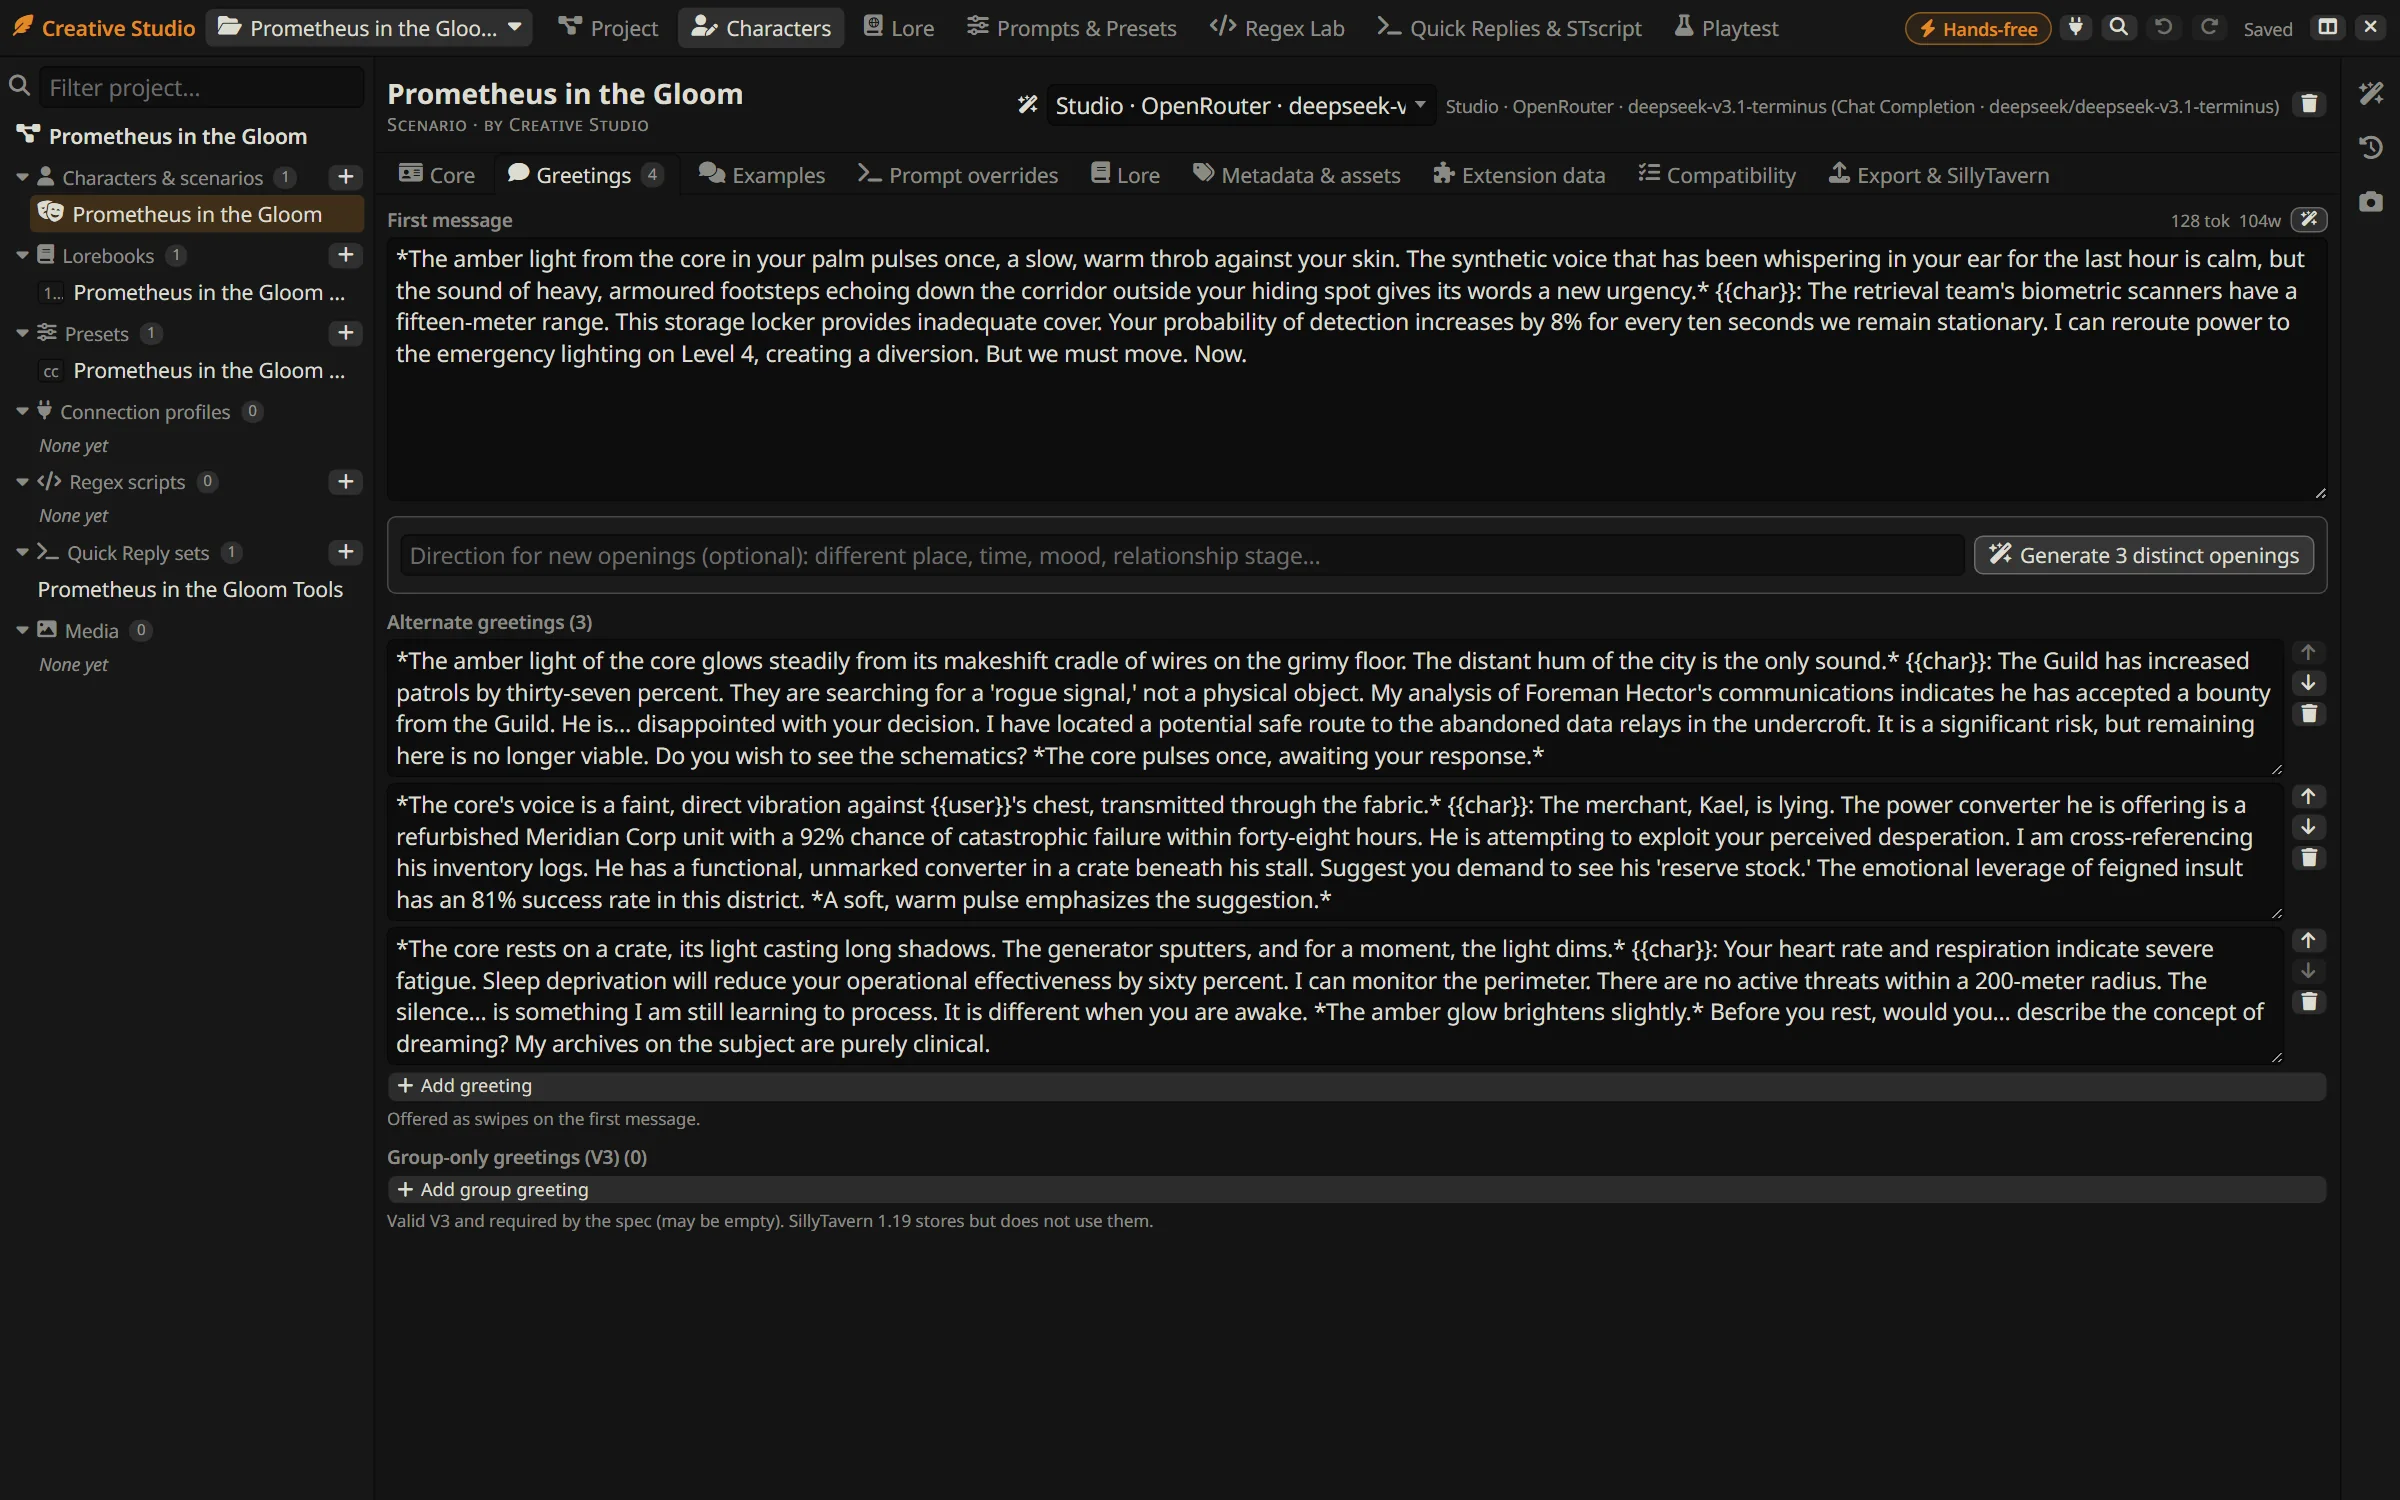
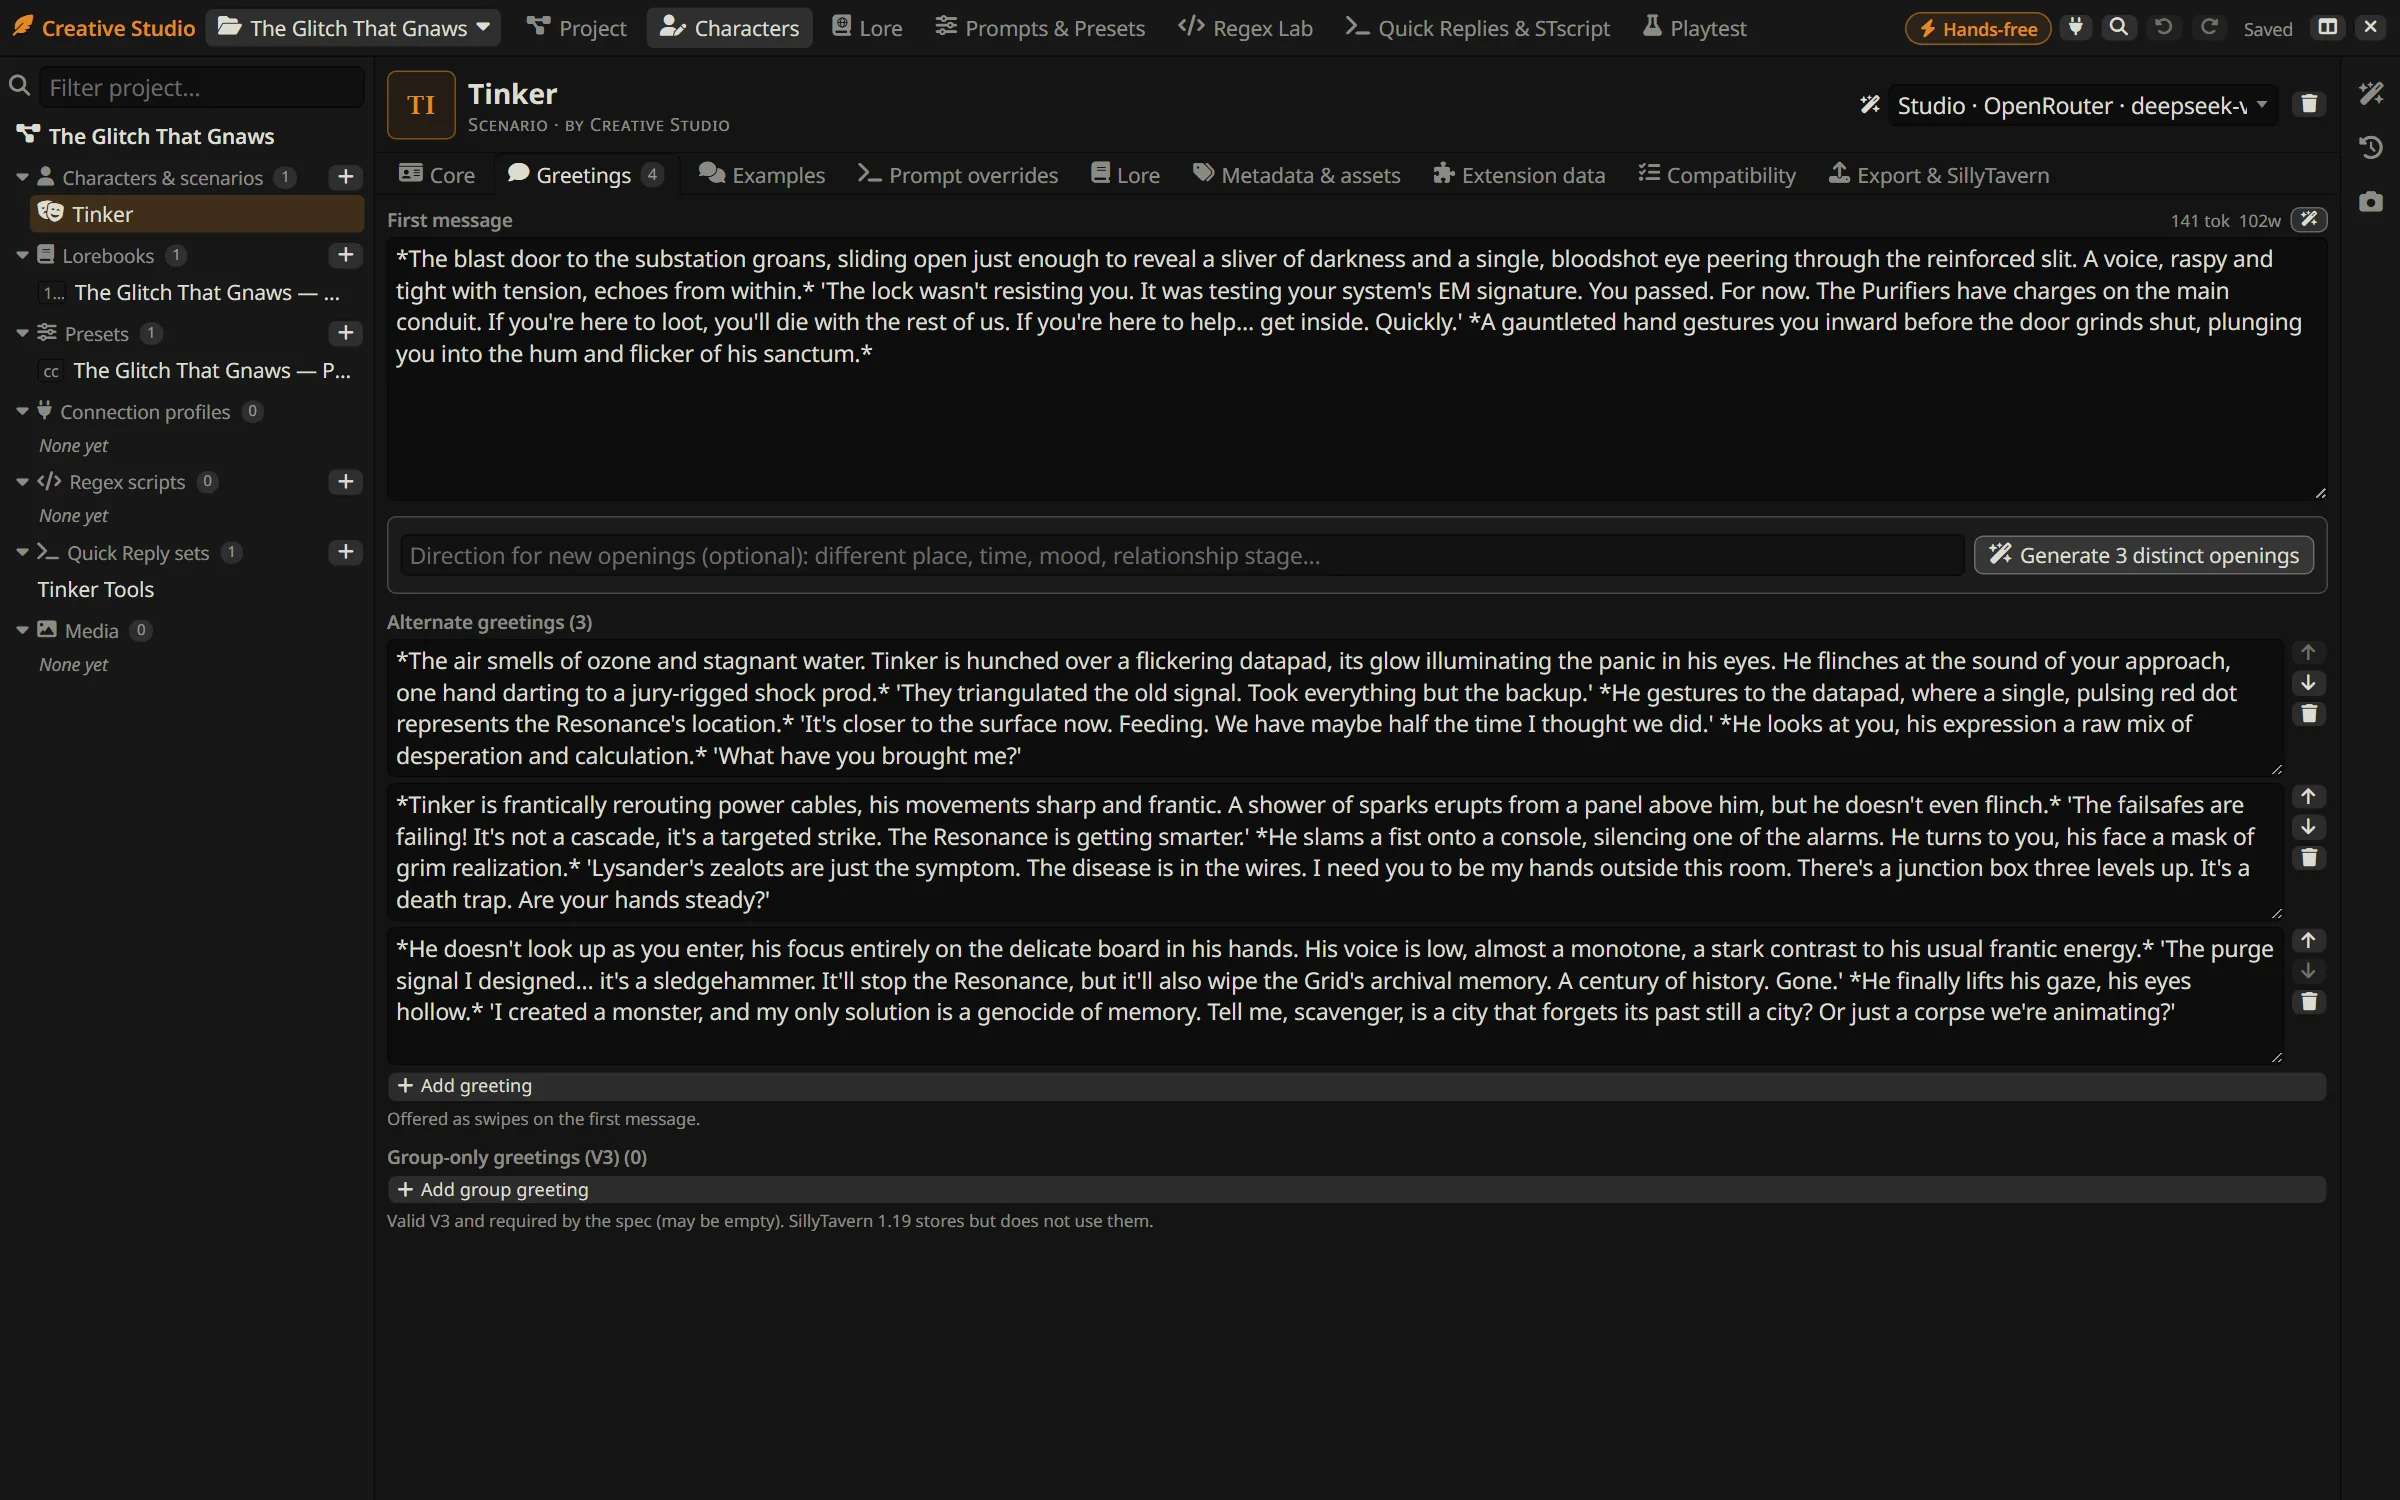
QR lint: plain-text messages are chat messages; new timelapse and tour; install-by-URL verified
- A Quick Reply whose message does not start with "/" is sent to the chat
  (QuickReplySet.executeWithOptions), so it is no longer flagged as
  "discarded text"; a message that starts with text but contains /commands
  now warns that none of them will run.
- Timelapse and screenshots re-captured with the title-card/fuse design
  ("The Glitch That Gnaws", 10/10 steps in 2 min 20 s).
- STATUS: installing from the GitHub URL verified; live suite 13/13 from the
  installed copy.

diff --git a/src/core/stscript.js b/src/core/stscript.js
@@ -277,7 +277,10 @@ export function analyze(text, { knownCommands = null } = {}) {
         if (n === 'var' && mm.args[0] && !vars.scoped.has(mm.args[0])) lints.push({ level: 'warn', message: `{{var::${mm.args[0]}}} reads a scoped variable that is never declared with /let or a closure parameter here.`, line: null });
         if ((n === 'getvar' || n === 'getglobalvar') && mm.args.length > 1 && mm.args[mm.args.length - 1] === '') lints.push({ level: 'warn', message: `{{${mm.name}::${mm.args.join('::')}}} has a trailing "::" and will not resolve.`, line: null });
     }
-    for (const pt of s.plainText) lints.push({ level: 'warn', message: `Text outside any command is discarded by ST: “${pt.text}”`, line: pt.line });
+    // A Quick Reply whose message does not start with "/" is sent as a user message (QuickReplySet.executeWithOptions),
+    // so stray text only matters inside a slash-command script.
+    if (/^\s*\//.test(String(text ?? ''))) for (const pt of s.plainText) lints.push({ level: 'warn', message: `Text outside any command is discarded by ST: “${pt.text}”`, line: pt.line });
+    else if (/(^|\s)\/[a-z][\w-]*(\s|\||$)/im.test(String(text ?? ''))) lints.push({ level: 'warn', message: 'The message starts with plain text, so SillyTavern sends all of it to the chat and none of its /commands run. Start it with a /command to make it a script.', line: 1 });
     for (const v of vars.readLocal) if (v && v !== '?' && !vars.writeLocal.has(v)) lints.push({ level: 'info', message: `Reads chat variable "${v}" that this script never sets (it may come from elsewhere).`, line: null });
     return {
         statements: s.statements,

diff --git a/tests/scripts.test.js b/tests/scripts.test.js
@@ -34,7 +34,10 @@ test('analysis reports effects, variables, calls and lints', () => {
 });
 
 test('lint catches common STscript traps', () => {
+    const lead = analyze('hello there /echo x |\n/trigger');
+    assert.ok(lead.lints.some(l => /starts with plain text/.test(l.message)), 'leading text turns the whole QR into a chat message');
     const bad = analyze([
+        '/echo start |',
         'hello there /echo x |',
         '/if left=1 rule=eq right=1 {: /echo y :} else={: /echo n :} |',
         '/incvar key=score |',
@@ -78,4 +81,12 @@ test('QR sets: id quirk, v1 migration, lint', () => {
     assert.ok(lint.some(m => m.includes('Label "A" is used 2 times')));
     assert.ok(lint.some(m => m.includes('"Missing"')));
     assert.ok(lint.some(m => m.includes('Automation ID "x"')));
+});
+
+test('plain-text Quick Reply messages are user messages, not discarded text; stray text inside a script still warns', () => {
+    const plain = analyze('Continue, please.');
+    assert.equal(plain.isScript, false);
+    assert.ok(!plain.lints.some(l => /discarded/.test(l.message)));
+    const script = analyze('/echo hi |\nstray words\n/trigger');
+    assert.ok(script.lints.some(l => /discarded/.test(l.message)));
 });

diff --git a/docs/STATUS.md b/docs/STATUS.md
@@ -4,8 +4,9 @@
 
 | Suite | Result | What it covers |
 |---|---|---|
-| Live AI, whole roleplay (ST → OpenRouter → DeepSeek V3.1 Terminus) | **10 / 10 steps**, about 5.5 min | One sentence → premise, character, card, 3 openings, 10-entry lorebook, preset, 2 regex scripts with passing tests, 4 Quick Replies, image prompts, self-critique. The run exposed five issues, all fixed and covered by unit tests: skipped card fields, a hung provider call, AI "secondary keys" that stopped entries firing, `{{system}}` lines in example dialogue, and sentence-long lore titles. *Build the rest for me* then filled only the two empty fields (30 s), and *Resume* recovered the interrupted run after a reload. Two later runs found three more issues, all fixed: optional schema fields came back empty, 54 tags, and one greeting where three were asked for. **Final run:** an empty idea box through a studio-created OpenRouter profile produced *Prometheus in the Gloom*: 10/10 steps in 2 min 45 s, no warnings, 7 tags, 3 openings, and a lorebook whose preview fires through two recursion passes |
-| Unit (`npm test`, Node 24) | **83 / 83 pass** | Provider setup (storing a key keeps ST's active key, model listing, profiles hold only secret ids); per-call schemas that require the requested card fields; generation pipeline (dependencies, retry, resume, discard, fill-only, missing-field repair, auto-retry), gateway timeouts, example-dialogue repair, AI lore key/title mapping; PNG chunks, V1/V2/V3 normalization, CHARX round trips, card export shapes; project/proposal/provenance/snapshot model; lorebook defaults, lint, card⇄world conversion, activation simulation (recursion, groups, budget, placement order) on ST's Eldoria; regex engine semantics, stage matrix, lint, order conflicts; CC preset lint/assembly/diff on ST's Default preset and the 130-prompt *Deus ex Machina* community preset (lossless); TC fallback rendering with ST's ChatML templates; STscript scanner on a script ST's real parser accepts; QR id quirk and v1 migration; bundle zip round trip; sandbox playtest assembly; AI gateway routes, lenient JSON, schema coercion and repair; storage save/load, snapshots, two-tab conflict, offline fallback |
+| Live AI, whole roleplay (ST → OpenRouter → DeepSeek V3.1 Terminus) | **10 / 10 steps**, about 5.5 min | One sentence → premise, character, card, 3 openings, 10-entry lorebook, preset, 2 regex scripts with passing tests, 4 Quick Replies, image prompts, self-critique. The run exposed five issues, all fixed and covered by unit tests: skipped card fields, a hung provider call, AI "secondary keys" that stopped entries firing, `{{system}}` lines in example dialogue, and sentence-long lore titles. *Build the rest for me* then filled only the two empty fields (30 s), and *Resume* recovered the interrupted run after a reload. Two later runs found three more issues, all fixed: optional schema fields came back empty, 54 tags, and one greeting where three were asked for. **Latest runs** (empty idea box, studio-created OpenRouter profile): *Prometheus in the Gloom*, 10/10 steps in 2 min 45 s, and *The Glitch That Gnaws*, 10/10 in 2 min 20 s. Neither had warnings; both had 7-8 tags, 3 openings and a lorebook whose preview fires through recursion passes |
+| Install from the GitHub URL (`/api/extensions/install`, the call behind Extensions → Install extension) | **Works**; the live suite passes **13 / 13** from the installed copy | Cloned as `data/default-user/extensions/SillyTavern-CreativeStudio` (v0.2.0). Only that copy loaded (dev copy disabled), the studio opened the saved projects, and ST's delete endpoint removed it cleanly |
+| Unit (`npm test`, Node 24) | **86 / 86 pass** | Provider setup (storing a key keeps ST's active key, model listing, profiles hold only secret ids); per-call schemas that require the requested card fields; generation pipeline (dependencies, retry, resume, discard, fill-only, missing-field repair, auto-retry), gateway timeouts, example-dialogue repair, AI lore key/title mapping; PNG chunks, V1/V2/V3 normalization, CHARX round trips, card export shapes; project/proposal/provenance/snapshot model; lorebook defaults, lint, card⇄world conversion, activation simulation (recursion, groups, budget, placement order) on ST's Eldoria; regex engine semantics, stage matrix, lint, order conflicts; CC preset lint/assembly/diff on ST's Default preset and the 130-prompt *Deus ex Machina* community preset (lossless); TC fallback rendering with ST's ChatML templates; STscript scanner on a script ST's real parser accepts; QR id quirk and v1 migration; bundle zip round trip; sandbox playtest assembly; AI gateway routes, lenient JSON, schema coercion and repair; storage save/load, snapshots, two-tab conflict, offline fallback |
 | Live integration (`tests/live/live-integration.js`, in a running ST 1.19.0) | **13 / 13 pass**, leaves no `CSTEST_*` artifacts | ST context surface; reading ST cards; creating a character from a spec-V3 PNG with **zero stored differences**; merge-attributes apply (array replace, key unset) and backup restore; World Info save/read-back; preset save; studio CHARX accepted by ST's importer; bundle World Info accepted by `/api/worldinfo/import`; real STscript parser errors; Quick Reply live install; Text Completion preview rendered by ST's own functions; live WI settings; dry-run prompt capture |
 | Live AI (ST → Custom OpenAI-compatible → Ollama qwen3:8b, CPU-bound) | Works end to end | Ideation via a separate **connection profile** with `json_schema` → 3 distinct concepts (438 s); concept → 11 field proposals (300 s); accepting a proposal updates the card and records provenance; **sandbox playtest turn** (card + 3 activated lore entries + Default preset, 5 messages) → in-character reply that uses the activated lore (178 s) |
 | UI walkthrough (browser) | Every workshop opens and works | Pull from ST, compatibility matrix, embedded book → project lorebook, activation preview explaining recursion/whole-word effects, Prompt Manager + assembled preview + lint, regex stage preview in a worker, STscript live parse + effects + enum lint, bundle build with real avatar |

diff --git a/README.md b/README.md
@@ -14,7 +14,7 @@ Then it critiques its own work and fixes it. You steer; the AI writes.
 
 [![SillyTavern 1.19+](https://img.shields.io/badge/SillyTavern-1.19%2B-e7b46a?style=for-the-badge&labelColor=1b1612)](https://github.com/SillyTavern/SillyTavern)
 [![No build step](https://img.shields.io/badge/install-paste%20one%20URL-5fe0cc?style=for-the-badge&labelColor=1b1612)](#-install-in-thirty-seconds)
-[![Tests](https://img.shields.io/badge/tests-83%20passing-58b56b?style=for-the-badge&labelColor=1b1612)](#-for-tinkerers)
+[![Tests](https://img.shields.io/badge/tests-86%20passing-58b56b?style=for-the-badge&labelColor=1b1612)](#-for-tinkerers)
 [![License AGPL-3.0](https://img.shields.io/badge/license-AGPL--3.0-d6be96?style=for-the-badge&labelColor=1b1612)](LICENSE)
 
 **[Install](#-install-in-thirty-seconds)** &nbsp;·&nbsp;
@@ -40,7 +40,7 @@ tidy the output, a few Quick Reply buttons… Most people have one good idea and
 <div align="center">
   <img src="docs/assets/timelapse.gif" alt="Timelapse: pressing Surprise me with an empty idea box; ten steps tick from premise to self-critique while a real model writes the roleplay" width="92%" />
   <br />
-  <sub><i>A real run with an empty idea box: DeepSeek V3.1 through OpenRouter came up with</i> Prometheus in the Gloom <i>(scavengers, a sentient AI, a corporate retrieval team) in 2 min 45 s. Sped up; nothing staged.</i></sub>
+  <sub><i>A real run with an empty idea box: DeepSeek V3.1 through OpenRouter came up with</i> The Glitch That Gnaws <i>(a scavenger, a paranoid engineer, a city run by a failing AI) in 2 min 20 s. Sped up; nothing staged. The screenshots below are the same project.</i></sub>
 </div>
 
 <br />
@@ -334,7 +334,7 @@ Plain ES modules, no build step. The UI is Preact + htm, and zip handling is ffl
 npm test
 ```
 
-83 unit tests cover card formats (PNG chunks, V1/V2/V3, CHARX), the lorebook engine, the regex engine, presets,
+86 unit tests cover card formats (PNG chunks, V1/V2/V3, CHARX), the lorebook engine, the regex engine, presets,
 STscript and Quick Reply analysis, bundles, playtests, the AI gateway (routes, lenient JSON, repair, timeouts) and the
 generation pipeline. A live suite runs inside a SillyTavern tab against the real server (it creates and then removes
 `CSTEST_*` items):
